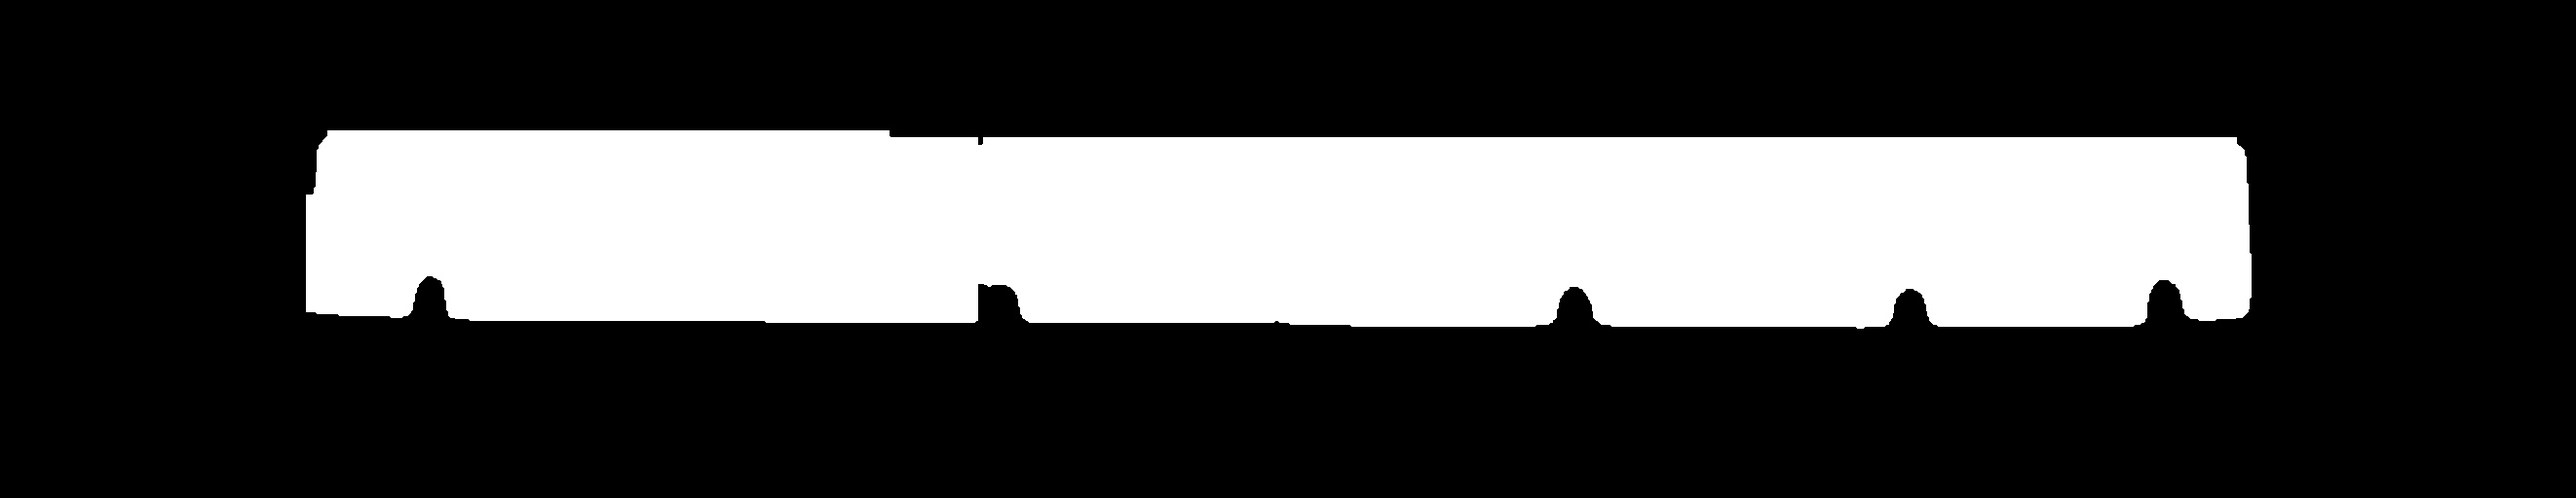
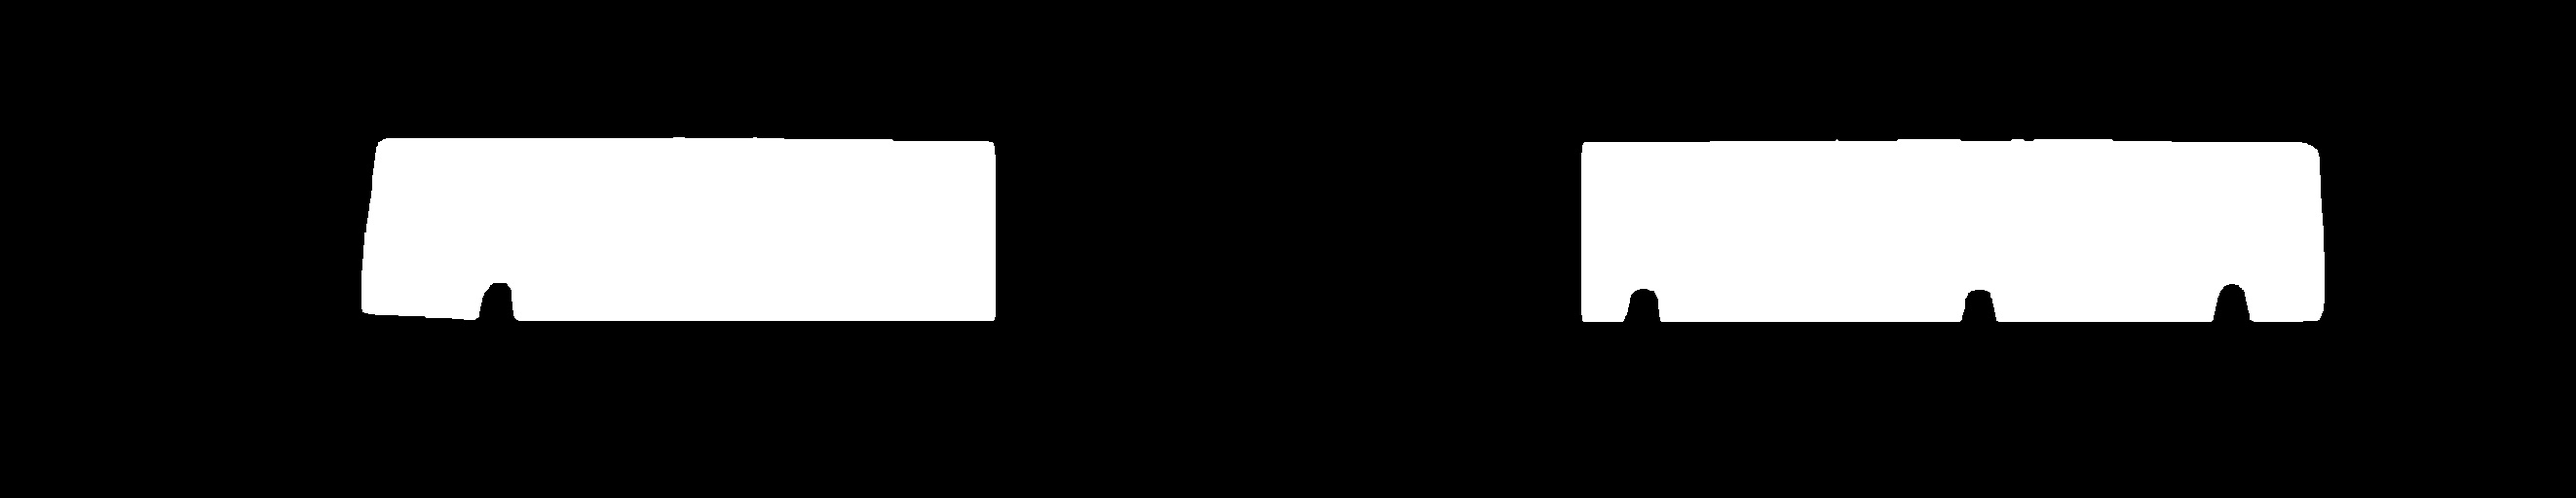
code refactoring

Changed region(s): [[0.093, 0.25, 0.8994, 0.6562]]

diff --git a/aikensa/parts_config/P5902A509.py b/aikensa/parts_config/P5902A509.py
@@ -44,7 +44,7 @@ bbox_offset = 1
 pixelMultiplier = 0.1592
 
 
-segmentation_width = 1640
+segmentation_width = 1024
 border_width = 360
 
 
@@ -294,8 +294,8 @@ def partcheck(image, clip_detection_result, leftSegmentation, rightSegmentation,
         rightmostCenter = (detectedposX[-1], detectedposY[-1])
         rightmostWidth = detectedWidth[-1] # not really useful here since we use mask from inference
         adjustment_offset = 0 # not really useful here since we use mask from inference
-        left_edge = find_edge_point_mask(image, combined_mask, leftmostCenter, direction="left", Yoffsetval = -100, Xoffsetval = 0)
-        right_edge = find_edge_point_mask(image, combined_mask, rightmostCenter, direction="right", Yoffsetval = -100, Xoffsetval = 0)
+        left_edge = find_edge_point_mask(image, combined_mask, leftmostCenter, direction="left", Yoffsetval = -60, Xoffsetval = 80)
+        right_edge = find_edge_point_mask(image, combined_mask, rightmostCenter, direction="right", Yoffsetval = -60, Xoffsetval = 80)
 
         detectedposX.insert(0, left_edge[0])
         detectedposY.insert(0, left_edge[1])
@@ -486,8 +486,8 @@ def dailyTenken01(image, clip_detection_result, segmentation_result, hanire_dete
         rightmostCenter = (detectedposX[-1], detectedposY[-1])
         rightmostWidth = detectedWidth[-1] # not really useful here since we use mask from inference
         adjustment_offset = 0 # not really useful here since we use mask from inference
-        left_edge = find_edge_point_mask(image, combined_mask, leftmostCenter, direction="left", Yoffsetval = -100, Xoffsetval = 0)
-        right_edge = find_edge_point_mask(image, combined_mask, rightmostCenter, direction="right", Yoffsetval = -100, Xoffsetval = 0)
+        left_edge = find_edge_point_mask(image, combined_mask, leftmostCenter, direction="left", Yoffsetval = -100, Xoffsetval = 50)
+        right_edge = find_edge_point_mask(image, combined_mask, rightmostCenter, direction="right", Yoffsetval = -100, Xoffsetval = 50)
 
         detectedposX.insert(0, left_edge[0])
         detectedposY.insert(0, left_edge[1])

diff --git a/aikensa/inspection_thread.py b/aikensa/inspection_thread.py
@@ -572,13 +572,13 @@ class InspectionThread(QThread):
                             for i in range(len(self.InspectionImages)):
 
 
-                                self.InspectionImages_endSegmentation_Left[i] = self.InspectionImages[i][:, :1640, :]
-                                self.InspectionImages_endSegmentation_Right[i] = self.InspectionImages[i][:, -1640:, :]
+                                self.InspectionImages_endSegmentation_Left[i] = self.InspectionImages[i][:, :1024, :]
+                                self.InspectionImages_endSegmentation_Right[i] = self.InspectionImages[i][:, -1024:, :]
                                 self.InspectionImages_endSegmentation_Left[i] = cv2.copyMakeBorder(self.InspectionImages_endSegmentation_Left[i], 360, 360, 360, 360, cv2.BORDER_CONSTANT, value=[255, 255, 255])
                                 self.InspectionImages_endSegmentation_Right[i] = cv2.copyMakeBorder(self.InspectionImages_endSegmentation_Right[i], 360, 360, 360, 360, cv2.BORDER_CONSTANT, value=[255, 255, 255])
 
-                                self.InspectionResult_EndSegmentation_Left[i] = self.P5902A509_SEGMENT_Model(source=self.InspectionImages_endSegmentation_Left[i], conf=0.8, imgsz=1280, verbose=False)
-                                self.InspectionResult_EndSegmentation_Right[i] = self.P5902A509_SEGMENT_Model(source=self.InspectionImages_endSegmentation_Right[i], conf=0.8, imgsz=1280, verbose=False)
+                                self.InspectionResult_EndSegmentation_Left[i] = self.P5902A509_SEGMENT_Model(source=self.InspectionImages_endSegmentation_Left[i], conf=0.8, imgsz=1280, rect=True, verbose=False, retina_masks=True)
+                                self.InspectionResult_EndSegmentation_Right[i] = self.P5902A509_SEGMENT_Model(source=self.InspectionImages_endSegmentation_Right[i], conf=0.8, imgsz=1280, rect=True, verbose=False, retina_masks=True)
 
 
                                 self.InspectionResult_ClipDetection[i] = self.P5902A509_CLIP_Model(source=self.InspectionImages[i], conf=0.3, imgsz=2500, iou=0.5, rect=True, verbose=False)
